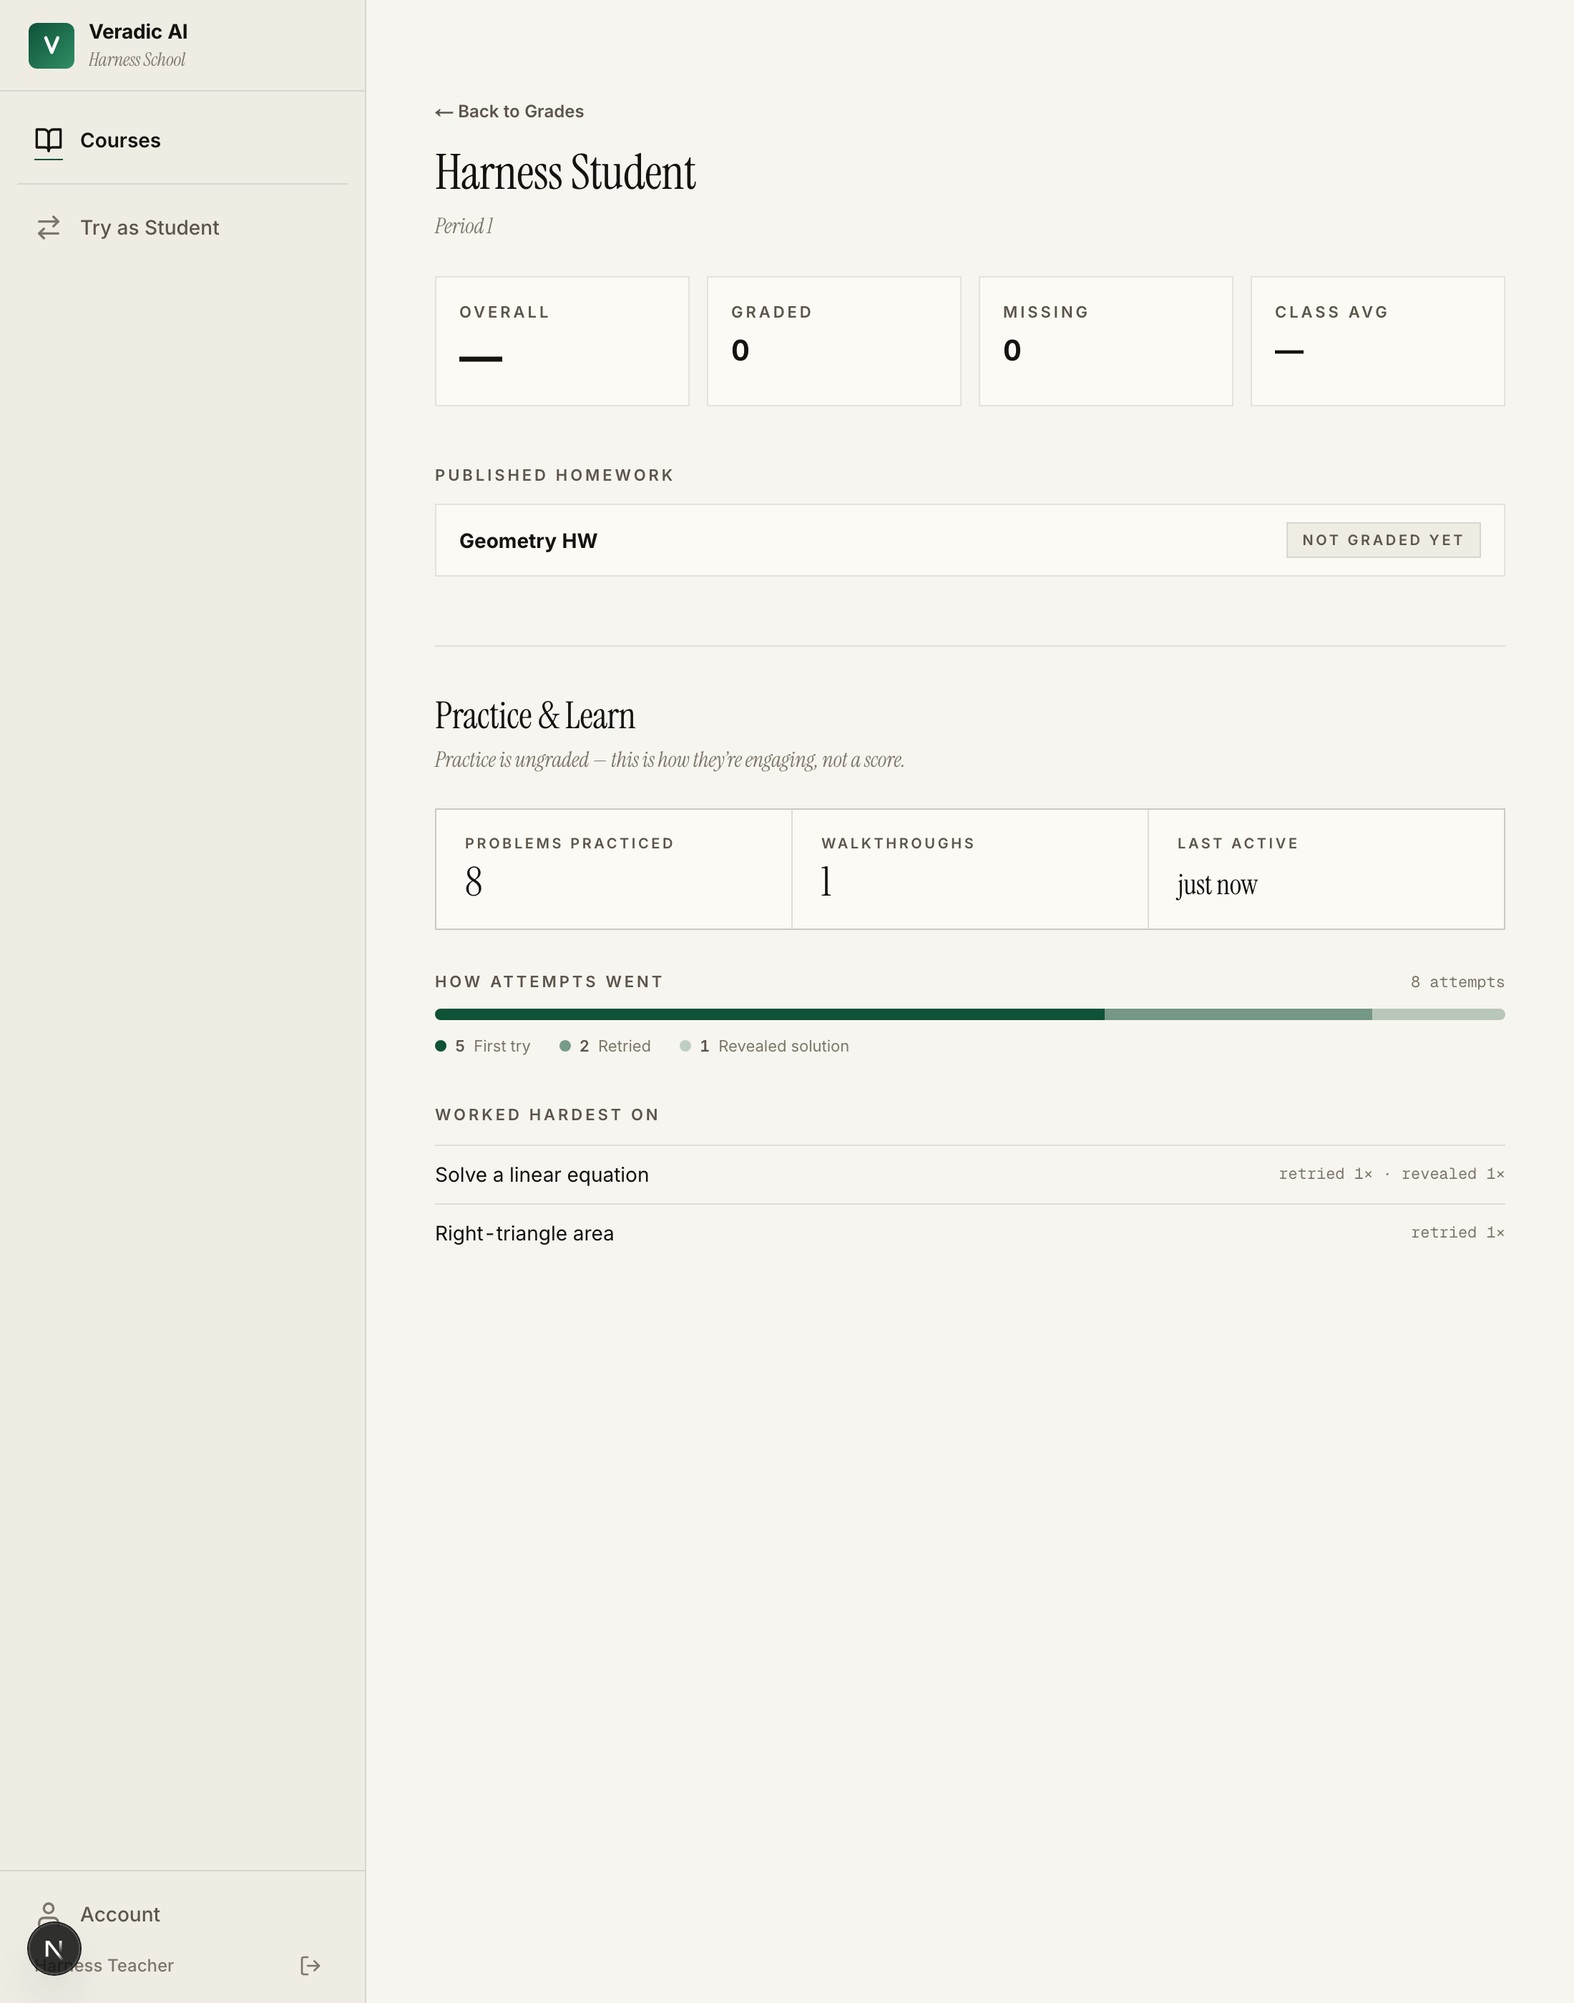
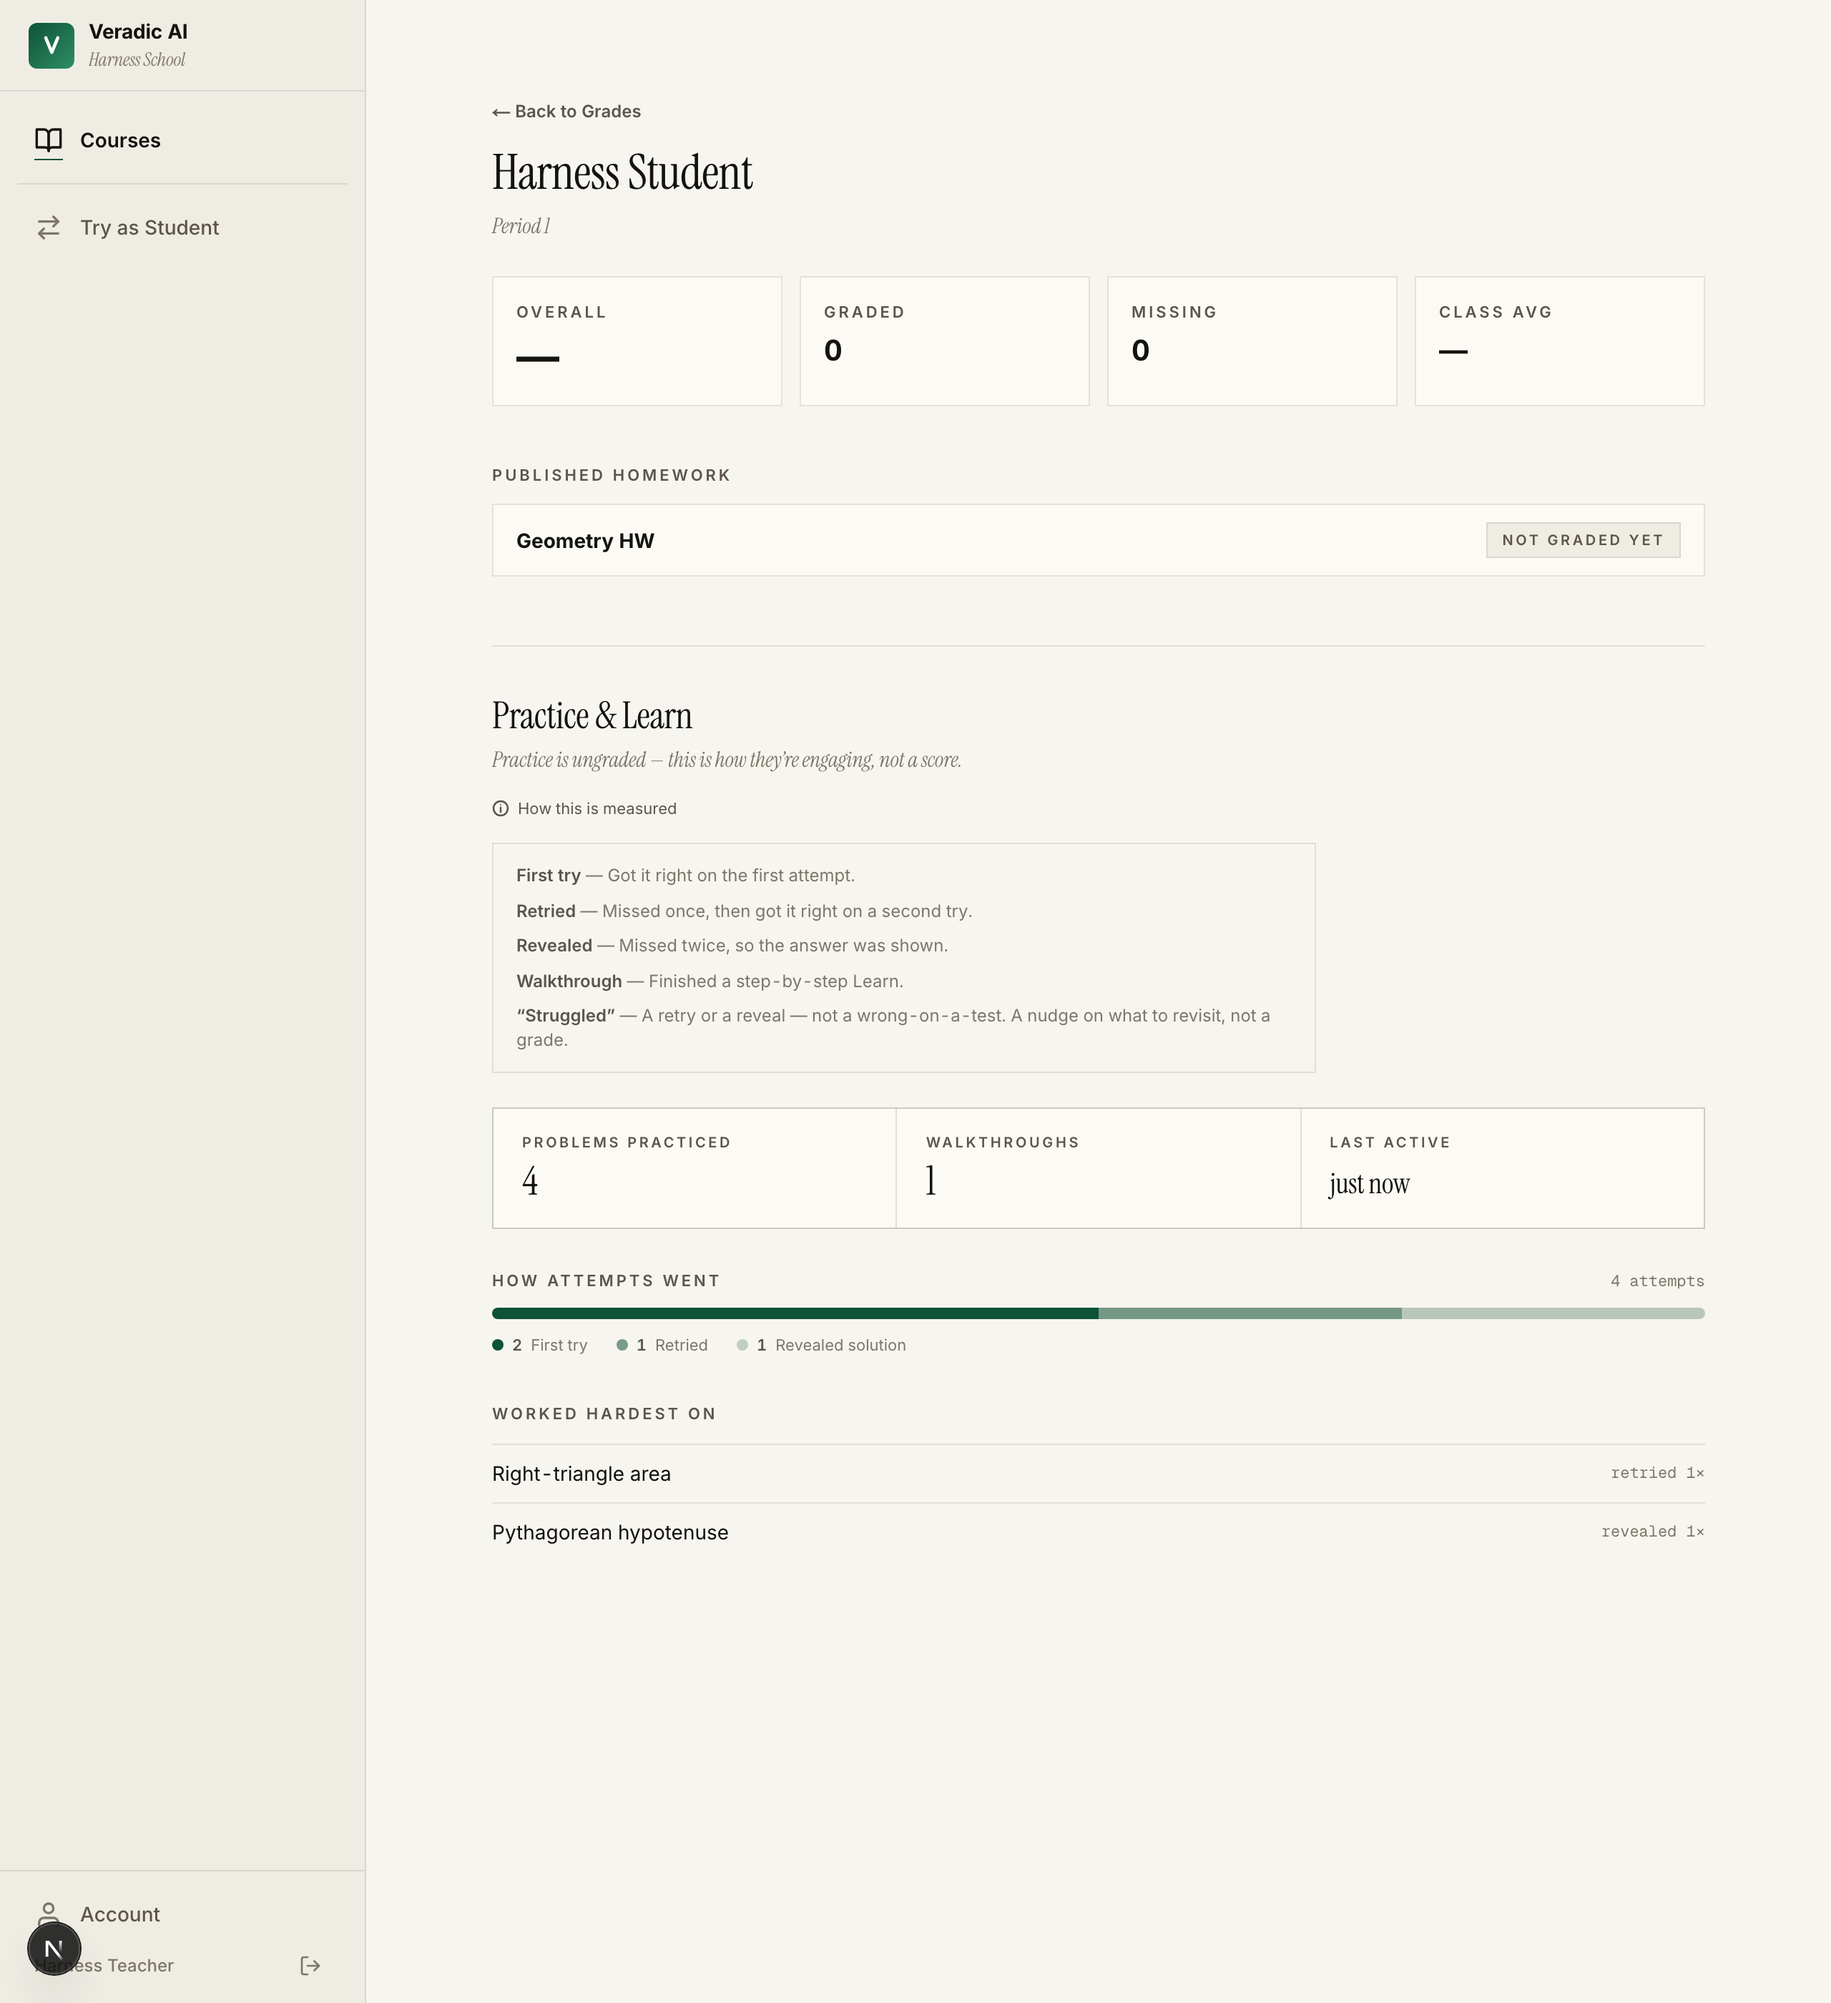
feat(practice): "how this is measured" key on the teacher data-engine surfaces
Surface the definitions so the teacher (and we) know exactly what the signal
means — first_try/retry/revealed/walkthrough, and that "struggled" = a retry or
a reveal, not a wrong-on-a-test. A quiet shared MeasuredKey (ⓘ + opt-in
expandable plain-English key), collapsed by default, on both the per-student
engagement and the class struggle panel. Reinforces "insight, not a score."

tsc 0, eslint clean; screenshots re-captured with the key expanded.

diff --git a/web/src/components/school/teacher/_pieces/measured-key.tsx b/web/src/components/school/teacher/_pieces/measured-key.tsx
@@ -1,0 +1,85 @@
+"use client";
+
+import { useId, useState } from "react";
+import { AnimatePresence, motion, useReducedMotion } from "framer-motion";
+
+/**
+ * "How this is measured" — a quiet, opt-in key that names what the
+ * practice-signal words mean in plain English. Default collapsed so the
+ * teacher surfaces stay calm; expanding is a deliberate choice.
+ *
+ * Shared by the per-student engagement readout (where it explains the
+ * outcome bar's First-try / Retried / Revealed segments) and the class
+ * struggle panel (where it pins down what "struggled" counts as), so the
+ * definitions stay identical wherever these words appear. It reinforces
+ * the "insight, not a score" framing — a nudge on what to revisit, never
+ * a grade.
+ */
+
+const ENTRIES: { term: string; def: string }[] = [
+  { term: "First try", def: "Got it right on the first attempt." },
+  { term: "Retried", def: "Missed once, then got it right on a second try." },
+  { term: "Revealed", def: "Missed twice, so the answer was shown." },
+  { term: "Walkthrough", def: "Finished a step-by-step Learn." },
+  {
+    term: "“Struggled”",
+    def: "A retry or a reveal — not a wrong-on-a-test. A nudge on what to revisit, not a grade.",
+  },
+];
+
+export function MeasuredKey({ className = "" }: { className?: string }) {
+  const reduce = useReducedMotion();
+  const [open, setOpen] = useState(false);
+  const panelId = useId();
+
+  return (
+    <div className={className}>
+      <button
+        type="button"
+        onClick={() => setOpen((v) => !v)}
+        aria-expanded={open}
+        aria-controls={panelId}
+        className="inline-flex items-center gap-1.5 rounded-[--radius-sm] text-[11px] text-text-muted transition-colors hover:text-text-secondary focus-visible:outline-none focus-visible:ring-2 focus-visible:ring-primary/40"
+      >
+        <svg
+          aria-hidden
+          width="12"
+          height="12"
+          viewBox="0 0 12 12"
+          fill="none"
+          stroke="currentColor"
+          strokeWidth="1.25"
+        >
+          <circle cx="6" cy="6" r="5" />
+          <line x1="6" y1="5.4" x2="6" y2="8.6" strokeLinecap="round" />
+          <circle cx="6" cy="3.5" r="0.5" fill="currentColor" stroke="none" />
+        </svg>
+        How this is measured
+      </button>
+
+      <AnimatePresence initial={false}>
+        {open && (
+          <motion.div
+            id={panelId}
+            initial={reduce ? false : { height: 0, opacity: 0 }}
+            animate={{ height: "auto", opacity: 1 }}
+            exit={reduce ? { opacity: 0 } : { height: 0, opacity: 0 }}
+            transition={{ duration: reduce ? 0 : 0.25, ease: "easeInOut" }}
+            className="overflow-hidden"
+          >
+            <dl className="mt-3 max-w-xl space-y-2 rounded-[--radius-md] border border-border-light bg-bg-subtle px-4 py-3.5">
+              {ENTRIES.map((e) => (
+                <div key={e.term} className="text-[12px] leading-snug">
+                  <dt className="inline font-semibold text-text-secondary">
+                    {e.term}
+                  </dt>
+                  <dd className="inline text-text-muted"> — {e.def}</dd>
+                </div>
+              ))}
+            </dl>
+          </motion.div>
+        )}
+      </AnimatePresence>
+    </div>
+  );
+}

diff --git a/web/src/components/school/teacher/practice-struggle-panel.tsx b/web/src/components/school/teacher/practice-struggle-panel.tsx
@@ -8,6 +8,7 @@ import {
   type PracticeInsightsResponse,
   type TeacherSection,
 } from "@/lib/api";
+import { MeasuredKey } from "./_pieces/measured-key";
 
 /**
  * Class struggle-insights — "Where the class is struggling." A re-teach
@@ -97,6 +98,7 @@ export function PracticeStrugglePanel({ courseId }: { courseId: string }) {
         <p className="mt-1 font-serif italic text-[15px] leading-snug text-text-muted">
           Formative signal from ungraded practice — a nudge on what to revisit, not a gradebook.
         </p>
+        <MeasuredKey className="mt-3" />
       </header>
 
       {showSectionPivot && sections && (

diff --git a/web/src/components/school/teacher/practice-engagement.tsx b/web/src/components/school/teacher/practice-engagement.tsx
@@ -8,6 +8,7 @@ import {
   type StudentStruggleItem,
 } from "@/lib/api";
 import { formatRelativeDate } from "@/lib/utils";
+import { MeasuredKey } from "./_pieces/measured-key";
 
 /**
  * Per-student Practice & Learn engagement — the formative companion to
@@ -81,6 +82,7 @@ export function PracticeEngagement({
         <p className="mt-1 font-serif italic text-[15px] leading-snug text-text-muted">
           Practice is ungraded — this is how they&rsquo;re engaging, not a score.
         </p>
+        <MeasuredKey className="mt-3" />
       </header>
 
       {!hasPracticed ? (
